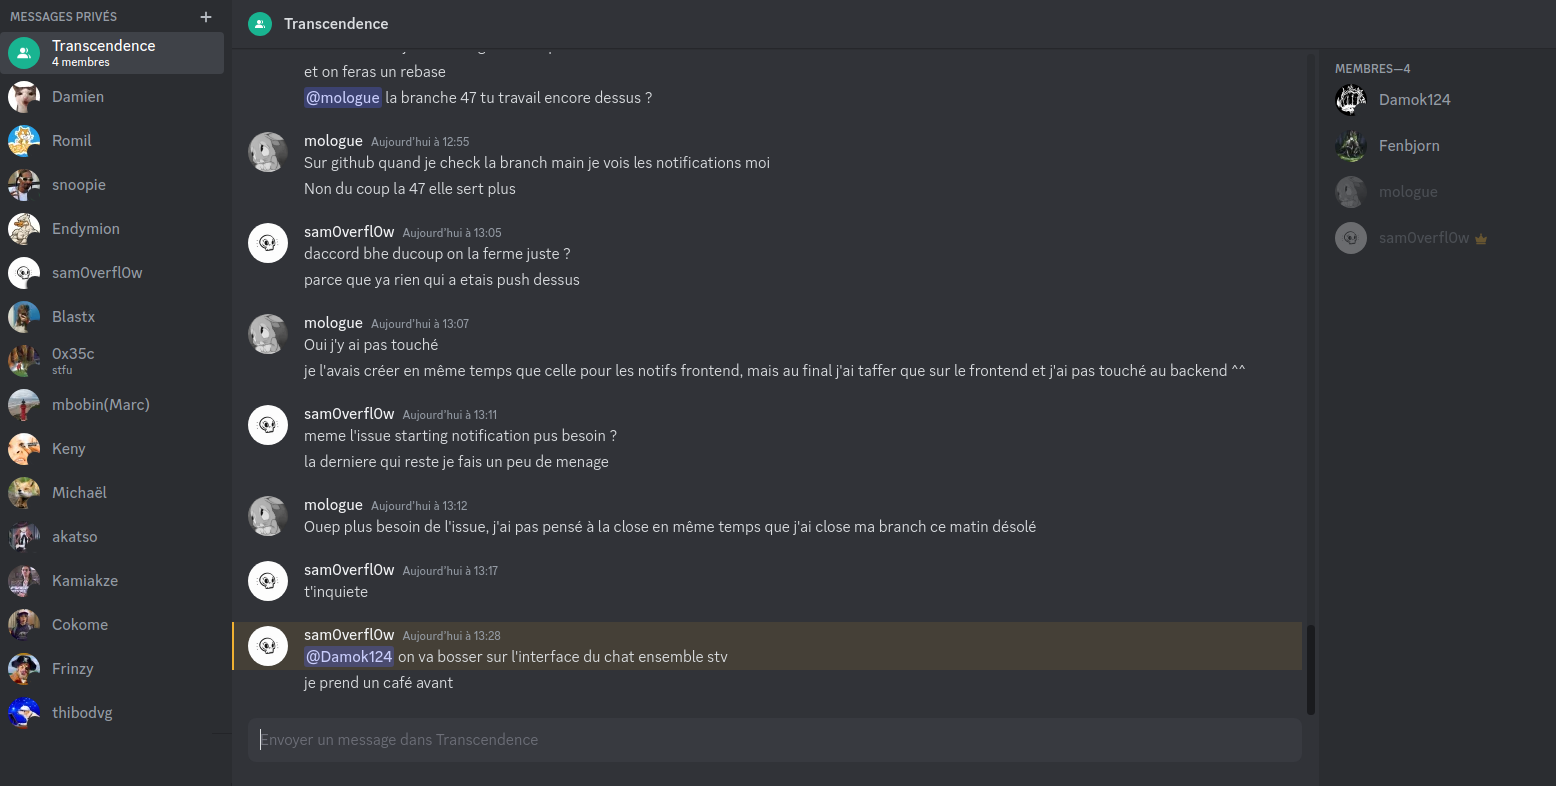
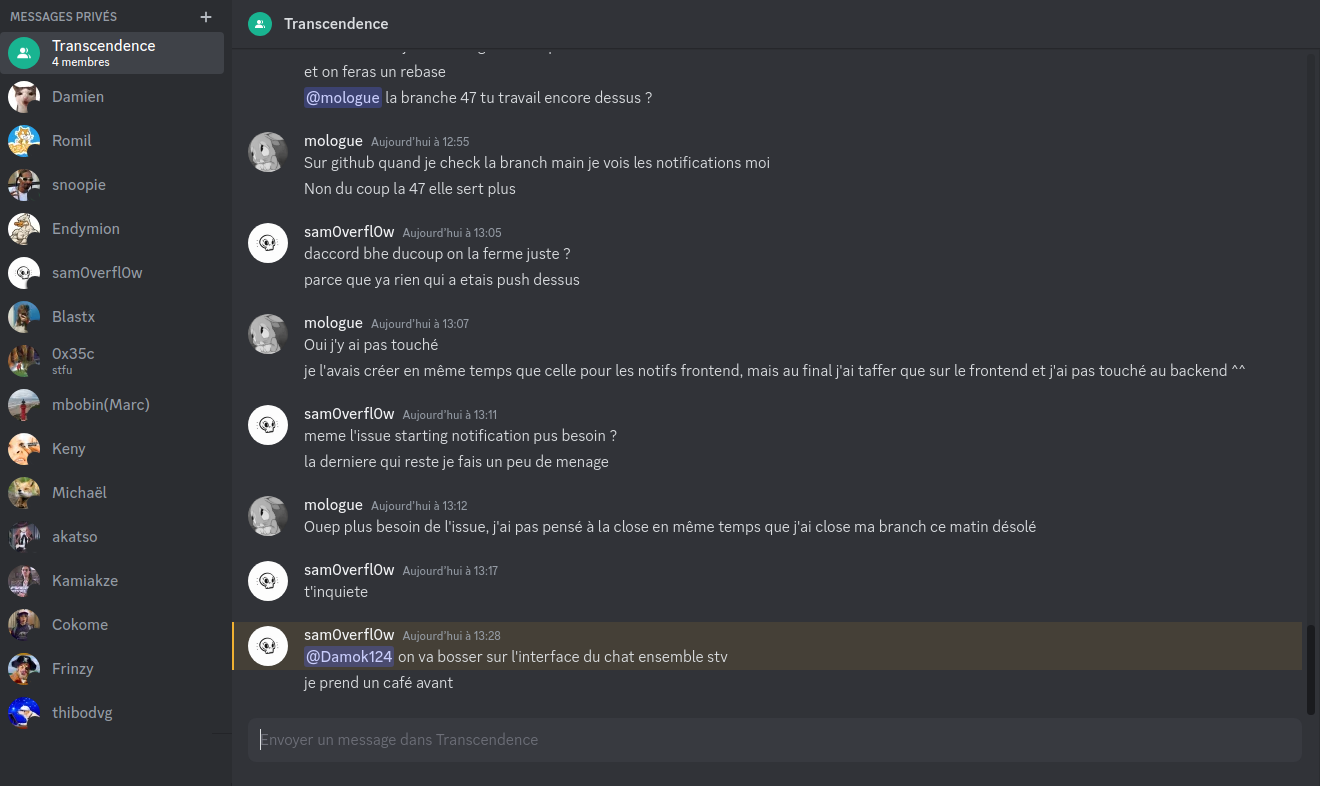
chat structure almost done

diff --git a/frontend/src/app/chat/chat.component.html b/frontend/src/app/chat/chat.component.html
@@ -1,59 +1,45 @@
-<!-- <div class="column">
 
-  <div id="rooms-list">
-    <mat-list>
-      <mat-list-item>Room 1</mat-list-item>
-      <mat-list-item>Room 2</mat-list-item>
-      <mat-list-item>Room 3</mat-list-item>
-    </mat-list>
-  </div>
-  
-  <div id="room-users">
-    <mat-list>
-      <mat-list-item>User A</mat-list-item>
-      <mat-list-item>User B</mat-list-item>
-      <mat-list-item>User C</mat-list-item>
-    </mat-list>
-  </div>
-  
-  <div id="conversation">
-    <mat-list>
-      <mat-list-item>Message a</mat-list-item>
-      <mat-list-item>Message b</mat-list-item>
-      <mat-list-item>Message c</mat-list-item>
-    </mat-list>
-  </div>
-  
-</div> -->
 <div class="global">
-  <span class="left-column">left
-    <!-- <mat-list class="channel-list">
+
+  <span class="left-column">
+    <mat-list class="channel-list">
       <mat-list-item class="channel">Global Chat</mat-list-item>
       <mat-list-item class="channel">Dummy 00</mat-list-item>
       <mat-list-item class="channel">Dummy 01</mat-list-item>
-    </mat-list> -->
+    </mat-list>
   </span>
 
-  <span class="right-column">right
-    <!-- <div class="channel-title">Channel Title</div>
-    <div class="conversation-column">
-      <div class="conversation">
-        <mat-list class="messages">
-          <mat-list-item class="message">Message a</mat-list-item>
-          <mat-list-item class="message">Message b</mat-list-item>
-          <mat-list-item class="message">Message c</mat-list-item>
+  <div class="right-column">
+
+    <div class="channel-title">Channel Title</div>
+
+    <div class="channel-content">
+
+      <div class="conversation-column">
+
+        <div class="conversation">
+          <mat-list class="messages">
+            <mat-list-item class="message">Message a</mat-list-item>
+            <mat-list-item class="message">Message b</mat-list-item>
+            <mat-list-item class="message">Message c</mat-list-item>
+          </mat-list>
+        </div>
+
+        <div class="send-message">Send a message to #channel name</div>
+
+      </div>
+
+      <div class="members">
+        <mat-list class="users">
+          <mat-list-item class="user">User A</mat-list-item>
+          <mat-list-item class="user">User B</mat-list-item>
+          <mat-list-item class="user">User C</mat-list-item>
+          <mat-list-item class="user">User D</mat-list-item>
         </mat-list>
       </div>
-      <div class="send-message">Send a message to #channel name</div>
+
     </div>
-    <div class="members">
-      <mat-list class="users">
-        <mat-list-item class="user">User A</mat-list-item>
-        <mat-list-item class="user">User B</mat-list-item>
-        <mat-list-item class="user">User C</mat-list-item>
-        <mat-list-item class="user">User D</mat-list-item>
-      </mat-list>
-    </div> -->
-  </span>
+
+  </div>
+
 </div>
-  

diff --git a/frontend/src/app/chat/chat.component.scss b/frontend/src/app/chat/chat.component.scss
@@ -1,40 +1,16 @@
-
-// #rooms-list {
-//   display: inline-block;
-//   width: 64px;
-//   height: 100%;
-// }
-
-// #room-users {
-//   display: inline-block;
-//   width: 320px;
-//   background-color: green;
-//   height: 100%;
-// }
-
-// #conversation {
-//   display: inline-block;
-//   width: calc(100% - 384px);
-//   background-color: blue;
-//   height: 100%;
-// }
-
 .global {
-  // width: calc(100vw);
-  // height: calc(85vh);
+  display: flex;
+  width: 100vw;
+  height: 85vh;
   background-color: blue;  
 }
 
-.left-column {
-  width: 50px;
-  // height: calc(85vh);
-  background-color: yellow;
-}
 
-.right-column {
-  width: 50px;
-  // height: calc(85vh);
-  background-color: orange;
+
+.left-column {
+  height: 100%;
+  width: 15%;
+  background-color: yellow;
 }
 
 .channel-list {
@@ -45,15 +21,33 @@
   background-color: #bb33bb;
 }
 
+
+
+.right-column {
+  height: 100%;
+  width: 85%;
+  background-color: orange;
+}
+
 .channel-title {
+  width: 100%;
   background-color: #30ff30;
 }
 
+.channel-content {
+  display: flex;
+  width: 100%;
+  height: 100%;
+}
+
 .conversation-column {
+  height: 100%;
+  width: 80%;
   background-color: green;
 }
 
 .conversation {
+  height: 80%;
   background-color: #404060;
 }
 
@@ -66,10 +60,13 @@
 }
 
 .send-message {
+  height: 20%;
   background-color: #FFAAAA;
 }
 
 .members {
+  height: 100%;
+  width: 20%;
   background-color: #00FFFF;
 }
 
@@ -80,4 +77,5 @@
 .user {
   background-color: #154080;
 }
+
 
